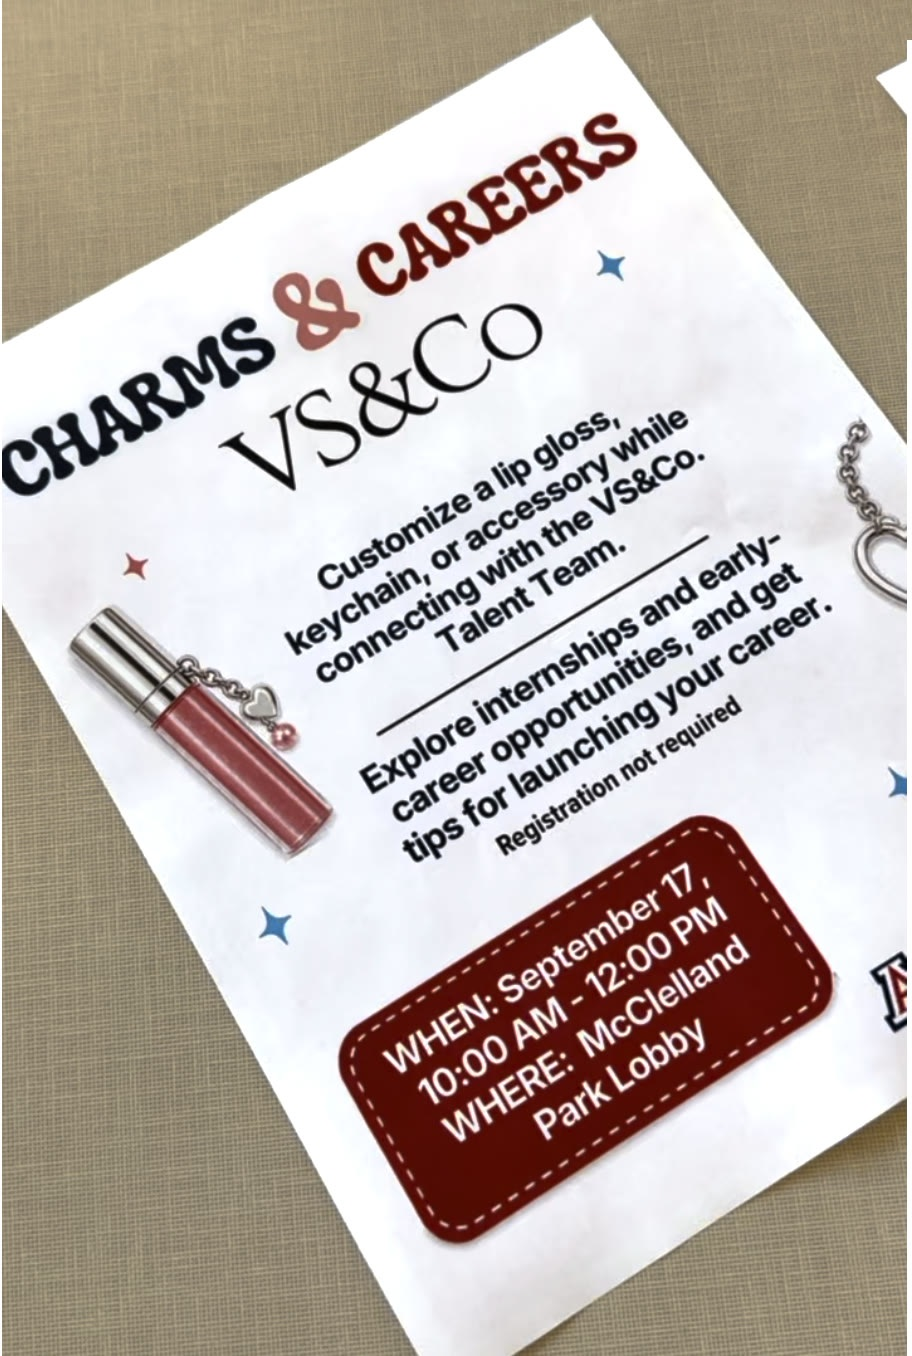
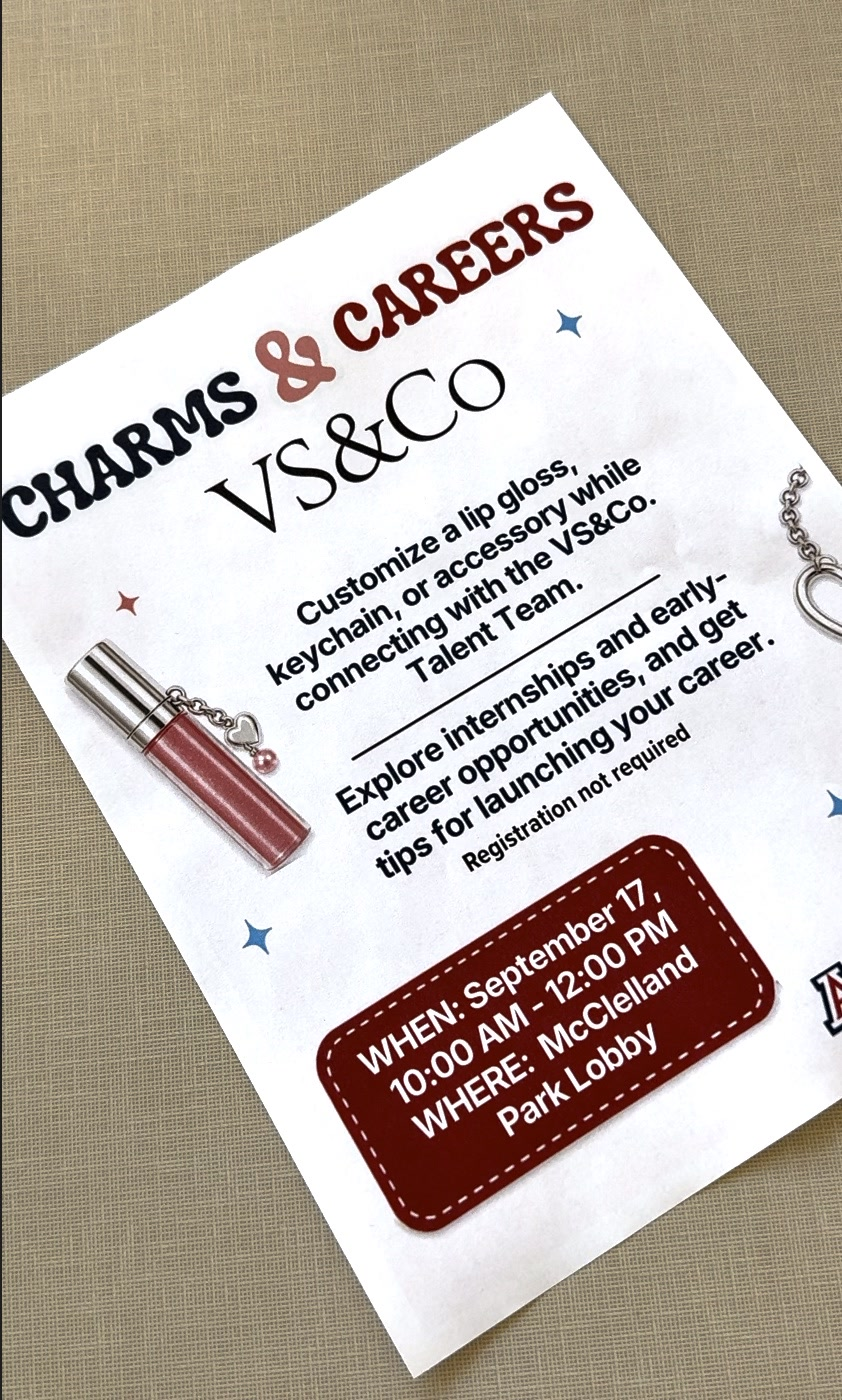
VS: replace Charms & Careers flyer photo

diff --git a/index.html b/index.html
@@ -8,7 +8,7 @@
   <link rel="preconnect" href="https://fonts.googleapis.com" />
   <link rel="preconnect" href="https://fonts.gstatic.com" crossorigin />
   <link href="https://fonts.googleapis.com/css2?family=Cormorant+Garamond:ital,wght@0,400;0,500;0,600;1,400;1,500&family=DM+Sans:opsz,wght@9..40,300;9..40,400;9..40,500&display=swap" rel="stylesheet" />
-  <link rel="stylesheet" href="styles.css?v=about-alt" />
+  <link rel="stylesheet" href="styles.css?v=newflyer1" />
 </head>
 <body>
   <a class="skip-link" href="#home">Skip to content</a>
@@ -315,7 +315,7 @@
               <figcaption>Wear Test reel</figcaption>
             </figure>
             <figure class="vs-frame vs-frame--flyer">
-              <img src="assets/images/vs/vs-charms-careers-flyer.jpg?v=fleck2" alt="Charms &amp; Careers VS&amp;Co event flyer" loading="lazy" />
+              <img src="assets/images/vs/vs-charms-careers-flyer.jpg?v=newflyer1" alt="Charms &amp; Careers VS&amp;Co event flyer" loading="lazy" />
               <figcaption>Event flyer</figcaption>
             </figure>
           </div>
